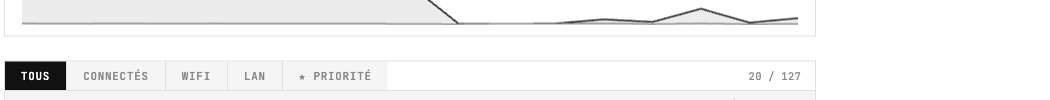
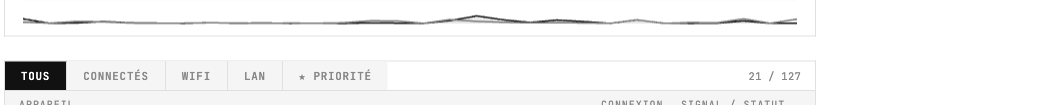
Delta-calcul 64-bit pour débits réels, sparkline auto-scale, cache DSL max
- get_wan_stats: calcul ΔBytes/Δt sur compteurs 64-bit (NewX_AVM_DE_TotalBytesReceived64)
  vs taux interne FritzBox — valeurs varient maintenant réellement
- Fallback sur NewByteReceiveRate au premier appel ou si compteur réinitialisé
- Cache DSL max 5 min (GetCommonLinkProperties) pour réduire les appels TR-064
- Sparkline: auto-scale sur max des données fenêtre (pas le max DSL)
  → lignes visibles même à faible trafic, % affiché en texte pour le contexte
- Ligne de référence 50% en pointillés sur le sparkline
- Screenshots mis à jour

diff --git a/templates/index.html b/templates/index.html
@@ -425,6 +425,8 @@
     let currentFilter = 'all';
     let allDevices = [];
     let wanHistory = [];
+    let wanMaxDown = 0;
+    let wanMaxUp   = 0;
 
     function setFilter(f, btn) {
       currentFilter = f;
@@ -515,15 +517,28 @@
 
       if (wanHistory.length < 2) return;
 
+      // Auto-scale sur le max des données réelles de la fenêtre
+      // (le % de capacité DSL est déjà affiché dans le texte "X% du max")
       const maxVal = Math.max(1, ...wanHistory.map(p => Math.max(p.down, p.up)));
-      const pad = 1;
+
+      const pad = 2;
       const w = W - pad * 2;
       const h = H - pad * 2;
+
+      // Ligne de référence 50%
+      ctx.beginPath();
+      ctx.moveTo(pad, pad + h * 0.5);
+      ctx.lineTo(pad + w, pad + h * 0.5);
+      ctx.strokeStyle = 'rgba(0,0,0,0.06)';
+      ctx.lineWidth = 1;
+      ctx.setLineDash([4, 4]);
+      ctx.stroke();
+      ctx.setLineDash([]);
 
       function drawLine(vals, stroke, fillAlpha) {
         const pts = vals.map((v, i) => ({
           x: pad + (i / (vals.length - 1)) * w,
-          y: pad + h - (v / maxVal) * h,
+          y: pad + h - Math.min(1, v / maxVal) * h,
         }));
 
         // Fill
@@ -544,8 +559,8 @@
         ctx.stroke();
       }
 
-      drawLine(wanHistory.map(p => p.down), '#111', 0.08);
-      drawLine(wanHistory.map(p => p.up),   '#888', 0.04);
+      drawLine(wanHistory.map(p => p.down), '#111', 0.07);
+      drawLine(wanHistory.map(p => p.up),   '#777', 0.04);
     }
 
     function splitFmt(fmt) {
@@ -583,8 +598,10 @@
           document.getElementById('wan-up-pct').textContent   = pctU > 0 ? pctU.toFixed(0) + '% du max' : '';
         }
 
-        allDevices = data.devices  || [];
+        allDevices = data.devices     || [];
         wanHistory = data.wan_history || [];
+        if (data.wan?.max_down) wanMaxDown = data.wan.max_down;
+        if (data.wan?.max_up)   wanMaxUp   = data.wan.max_up;
         if (!document.querySelector('.rename-input')) renderDevices();
         drawSparkline();
 

diff --git a/app.py b/app.py
@@ -15,26 +15,57 @@ REFRESH_INTERVAL = 3
 _cache = {'devices': [], 'wan': {}, 'wan_history': [], 'error': None}
 _lock = threading.Lock()
 
+# État pour le delta-calcul des débits
+_prev_rx = 0
+_prev_tx = 0
+_prev_t  = 0.0
+
+# Cache des capacités DSL (ne changent pas sauf re-sync)
+_dsl_max = {'down': 0, 'up': 0, 'fetched_at': 0.0}
+DSL_CACHE_TTL = 300  # re-lire toutes les 5 min
+
 
 def get_wan_stats(fc):
     """
-    Débits réels actuels via TR-064 GetAddonInfos (bytes/s).
-    Capacité DSL max via GetCommonLinkProperties (bits/s → bytes/s).
+    Débits réels calculés par delta sur les compteurs cumulatifs 64-bit (GetAddonInfos).
+    Fallback sur NewByteReceiveRate/NewByteSendRate si premier appel ou compteur incohérent.
+    Capacité DSL max via GetCommonLinkProperties, cachée 5 min.
     """
-    addon = fc.call_action('WANCommonIFC1', 'GetAddonInfos')
-    down = int(addon.get('NewByteReceiveRate', 0))
-    up   = int(addon.get('NewByteSendRate', 0))
+    global _prev_rx, _prev_tx, _prev_t, _dsl_max
 
-    link     = fc.call_action('WANCommonIFC1', 'GetCommonLinkProperties')
-    max_down = int(link.get('NewLayer1DownstreamMaxBitRate', 0)) // 8
-    max_up   = int(link.get('NewLayer1UpstreamMaxBitRate',  0)) // 8
+    addon = fc.call_action('WANCommonIFC1', 'GetAddonInfos')
+    rx64  = int(addon.get('NewX_AVM_DE_TotalBytesReceived64') or 0)
+    tx64  = int(addon.get('NewX_AVM_DE_TotalBytesSent64')     or 0)
+    now   = time.time()
+
+    # Calcul du débit par delta — plus précis que le taux interne FritzBox
+    if _prev_t > 0 and rx64 >= _prev_rx and tx64 >= _prev_tx:
+        dt   = now - _prev_t
+        down = int((rx64 - _prev_rx) / dt) if dt > 0 else 0
+        up   = int((tx64 - _prev_tx) / dt) if dt > 0 else 0
+    else:
+        # Premier appel ou compteur réinitialisé → taux FritzBox en fallback
+        down = int(addon.get('NewByteReceiveRate') or 0)
+        up   = int(addon.get('NewByteSendRate')    or 0)
+
+    _prev_rx, _prev_tx, _prev_t = rx64, tx64, now
+
+    # Capacité DSL — relire seulement si cache expiré
+    if now - _dsl_max['fetched_at'] > DSL_CACHE_TTL:
+        link = fc.call_action('WANCommonIFC1', 'GetCommonLinkProperties')
+        _dsl_max['down']       = int(link.get('NewLayer1DownstreamMaxBitRate') or 0) // 8
+        _dsl_max['up']         = int(link.get('NewLayer1UpstreamMaxBitRate')   or 0) // 8
+        _dsl_max['fetched_at'] = now
+        connected = link.get('NewPhysicalLinkStatus') == 'Up'
+    else:
+        connected = True  # on reçoit des données → connecté
 
     return {
         'down':      down,
         'up':        up,
-        'max_down':  max_down,
-        'max_up':    max_up,
-        'connected': link.get('NewPhysicalLinkStatus') == 'Up',
+        'max_down':  _dsl_max['down'],
+        'max_up':    _dsl_max['up'],
+        'connected': connected,
     }
 
 
@@ -83,8 +114,6 @@ def get_devices(fc):
     r.raise_for_status()
 
     root = ET.fromstring(r.text)
-    now = int(time.time())
-
     signal_map = get_wlan_signal_map(fc)
 
     devices = []
